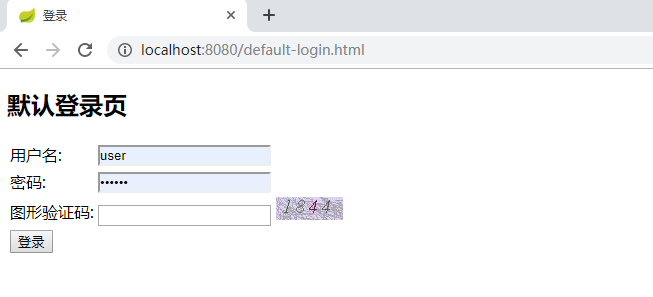
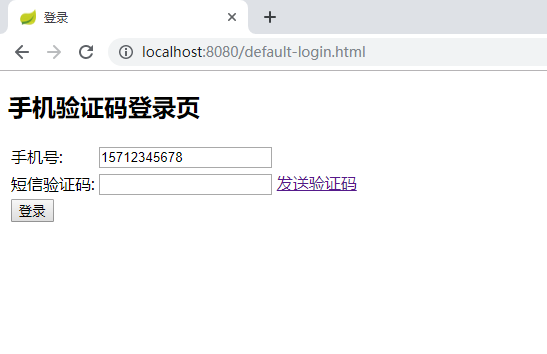
短信验证码记录

diff --git a/security-validate-sms/src/main/resources/static/default-login.html b/security-validate-sms/src/main/resources/static/default-login.html
@@ -5,28 +5,6 @@
 <title>登录</title>
 </head>
 <body>
-<h2>表单登录页</h2>
-<form action="/authentication/form" method="post">
-	<table>
-		<tr>
-			<td>用户名:</td>
-			<td><input type="text" name="username"></td>
-		</tr>
-		<tr>
-			<td>密码:</td>
-			<td><input type="password" name="password"></td>
-		</tr>
-        <tr>
-            <td colspan='2'><input name="remember-me" type="checkbox" value="true" />记住我</td>
-        </tr>
-		<tr>
-			<td colspan="2">
-				<button type="submit" name="type" value="submit">登录</button>
-			</td>
-		</tr>
-	</table>
-</form>
-
 	<h2>手机验证码登录页</h2>
 
 	<form action="/authentication/mobile" method="post">

diff --git a/security-validate-sms/README.md b/security-validate-sms/README.md
@@ -11,58 +11,70 @@ REDIRECT 会重定向到`fw.security.browser.loginPage`  设置的页面
 ###2.2 登录
 添加了验证码的显示和校验
 ![login](images/login.png)
-用户名配置在`application.yml`中，用户名密码是`user/123456`
+ 点击发送验证码，在控制台可以看到模拟发送的验证码`向手机15712345678发送短信验证码701262` \
+ 用户名配置在`application.yml`中，用户名密码是`user/123456`
 ![success](images/success.png)
 登录成功之后会返回用户登录的信息，密码被SpringSecurity处理为空
-####2.3 登录成功的处理
-这里需要将校验的逻辑设置在UsernamePasswordAuthenticationFilter之前
+####2.3 登录成功的处理(已经将之前的表单登录和校验封装在此表单中)
+这里需要将验证码登录添加到AuthenticationManager里面
 ```java
 @Override
     protected void configure(HttpSecurity http) throws Exception {
-        ValidateCodeFilter validateCodeFilter=new ValidateCodeFilter();
-        validateCodeFilter.setAuthenticationFailureHandler(fwAuthenctiationFailureHandler);
+        //密码登录配置    
+        applyPasswordAuthenticationConfig(http);
 
-        http.addFilterBefore(validateCodeFilter, UsernamePasswordAuthenticationFilter.class)
-                .formLogin()
-                .loginPage("/authentication/require")
-                .loginProcessingUrl("/authentication/form")
-                .successHandler(fwAuthenticationSuccessHandler)
-                .failureHandler(fwAuthenctiationFailureHandler)
+        http.apply(validateCodeSecurityConfig)//短信验证码校验
+                .and()
+                .apply(smsCodeAuthenticationSecurityConfig)//短信登录
+                .and()
+                .rememberMe()//记住我功能
+                .tokenRepository(persistentTokenRepository())//登录成功的token记录到数据库
+                .tokenValiditySeconds(securityProperties.getBrowser().getRememberMeSeconds())
+                .userDetailsService(userDetailsService)
+                .and()
+                .sessionManagement()//session管理
+                .invalidSessionStrategy(invalidSessionStrategy)
+                .maximumSessions(securityProperties.getBrowser().getSession().getMaximumSessions())
+                .maxSessionsPreventsLogin(securityProperties.getBrowser().getSession().isMaxSessionsPreventsLogin())
+                .expiredSessionStrategy(sessionInformationExpiredStrategy)
+                .and()
                 .and()
                 .authorizeRequests()
-                .antMatchers("/authentication/require",
+                .antMatchers(//设置不拦截的路径
+                        FwCommonConstants.DEFAULT_UNAUTHENTICATION_URL,
+                        FwCommonConstants.DEFAULT_LOGIN_PROCESSING_URL_MOBILE,
                         securityProperties.getBrowser().getLoginPage(),
-                        "/code/image").permitAll()
-                .anyRequest().authenticated()
+                        FwCommonConstants.DEFAULT_VALIDATE_CODE_URL_PREFIX+"/*",
+                        securityProperties.getBrowser().getSession().getSessionInvalidUrl()+".json",
+                        securityProperties.getBrowser().getSession().getSessionInvalidUrl()+".html"
+                        )
+                .permitAll()
+                .anyRequest()
+                .authenticated()
                 .and()
-                .csrf().disable();
+                .csrf().disable();//处理跨域问题
     }
 ```
 ###2.4 验证码的配置
-@ConditionalOnMissingBean(name = "imageValidateCodeGenerator")主要是为了方便后续拓展，如果已经注册了imageValidateCodeGenerator的bean,就不会使用当前默认的注册
+@ConditionalOnMissingBean(SmsCodeSender.class)主要是为了方便后续拓展，如果已经注册了SmsCodeSender的bean,就不会使用当前默认的注册
 ```java
 @Configuration
 public class ValidateCodeBeanConfig {
 
-	@Autowired
-	private SecurityProperties securityProperties;
-
-	@Bean
-	@ConditionalOnMissingBean(name = "imageValidateCodeGenerator")
-	public ValidateCodeGenerator imageValidateCodeGenerator() {
-		ImageCodeGenerator codeGenerator = new ImageCodeGenerator();
-		codeGenerator.setSecurityProperties(securityProperties);
-		return codeGenerator;
-	}
+	    @Bean
+    	@ConditionalOnMissingBean(SmsCodeSender.class)
+    	public SmsCodeSender smsCodeSender() {
+    		return new DefaultSmsCodeSender();
+    	}
 
 
 }
 ```
 ###2.5 验证码的过滤处理
 
-    1.在请求`localhost:8080/code/image`请求之后验证码的code就会设置到session缓存中
+    1.在请求`localhost:8080/code/sms`请求之后验证码的code就会设置到session缓存中
     2.验证码的过滤处理需要继承`OncePerRequestFilter`的处理，它能够确保在一次请求只通过一次filter，而不需要重复执行
-    3.验证码的过滤器需要对`/authentication/form`进行拦截
+    3.验证码的过滤器需要对`/authentication/mobile`进行拦截
 ###2.6 拦截器的执行顺序和范围如下图，从里往外是执行顺序
 ![filter](images/filter.png)
     
@@ -71,34 +83,37 @@ public class ValidateCodeBeanConfig {
     3.切面可以获取方法里的参数和变量
 ###2.7 拦截器的校验方案
 ```java
-ImageCode codeInSession = (ImageCode) sessionStrategy.getAttribute(request, SESSION_KEY);
+        ValidateCodeType processorType = getValidateCodeType(request);
+		String sessionKey = getSessionKey(request);
+
+		C codeInSession = (C) sessionStrategy.getAttribute(request, sessionKey);
 
 		String codeInRequest;
 		try {
 			codeInRequest = ServletRequestUtils.getStringParameter(request.getRequest(),
-					"imageCode");
+					processorType.getParamNameOnValidate());
 		} catch (ServletRequestBindingException e) {
 			throw new ValidateCodeException("获取验证码的值失败");
 		}
 
 		if (StringUtils.isBlank(codeInRequest)) {
-			throw new ValidateCodeException("验证码的值不能为空");
+			throw new ValidateCodeException(processorType + "验证码的值不能为空");
 		}
 
 		if (codeInSession == null) {
-			throw new ValidateCodeException("验证码不存在");
+			throw new ValidateCodeException(processorType + "验证码不存在");
 		}
 
 		if (codeInSession.isExpried()) {
-			sessionStrategy.removeAttribute(request, SESSION_KEY);
-			throw new ValidateCodeException("验证码已过期");
+			sessionStrategy.removeAttribute(request, sessionKey);
+			throw new ValidateCodeException(processorType + "验证码已过期");
 		}
 
 		if (!StringUtils.equals(codeInSession.getCode(), codeInRequest)) {
-			throw new ValidateCodeException("验证码不匹配");
+			throw new ValidateCodeException(processorType + "验证码不匹配");
 		}
 
-		sessionStrategy.removeAttribute(request, SESSION_KEY);
+		sessionStrategy.removeAttribute(request, sessionKey);
 ```
 ###2.8 接口
 访问业务接口 `http://localhost:8080/user` ,只有用户登录成功之后才能访问。
